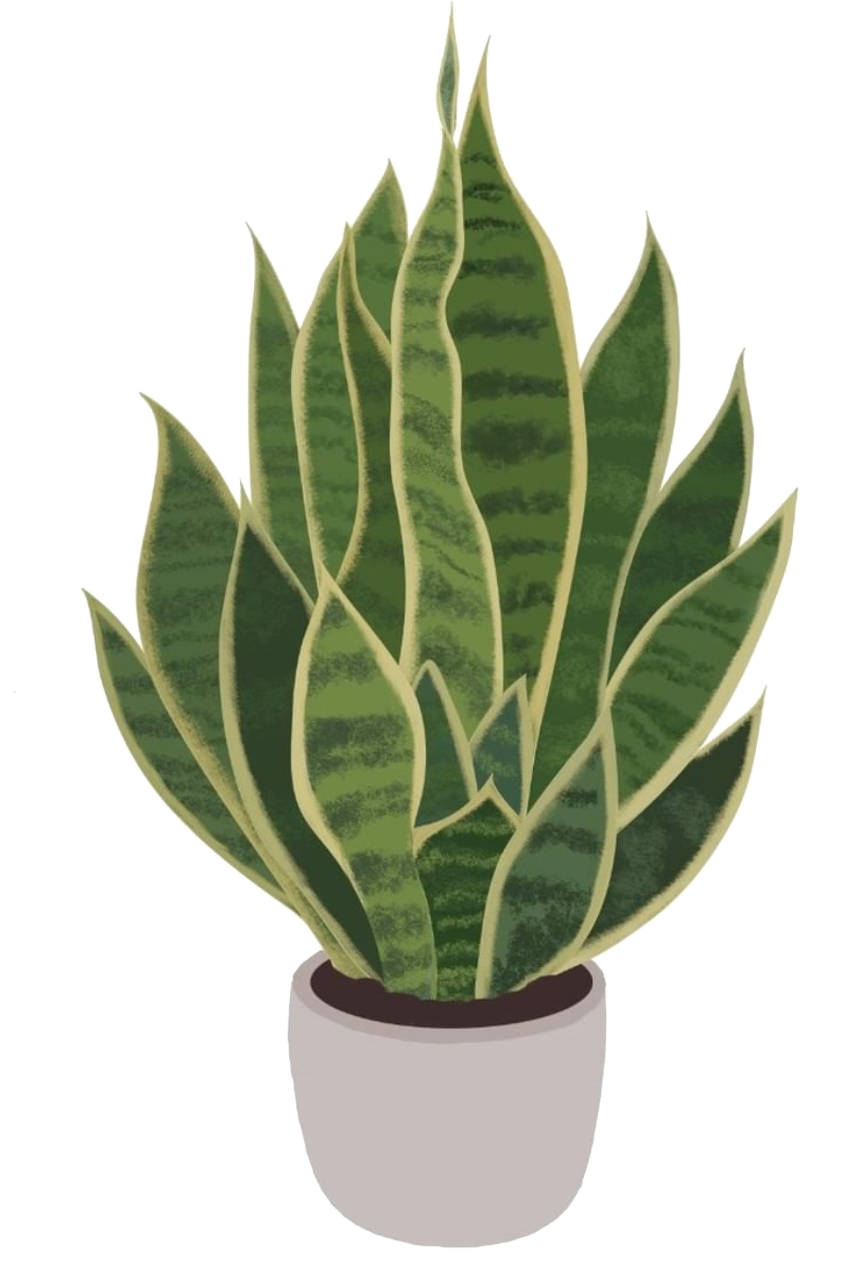
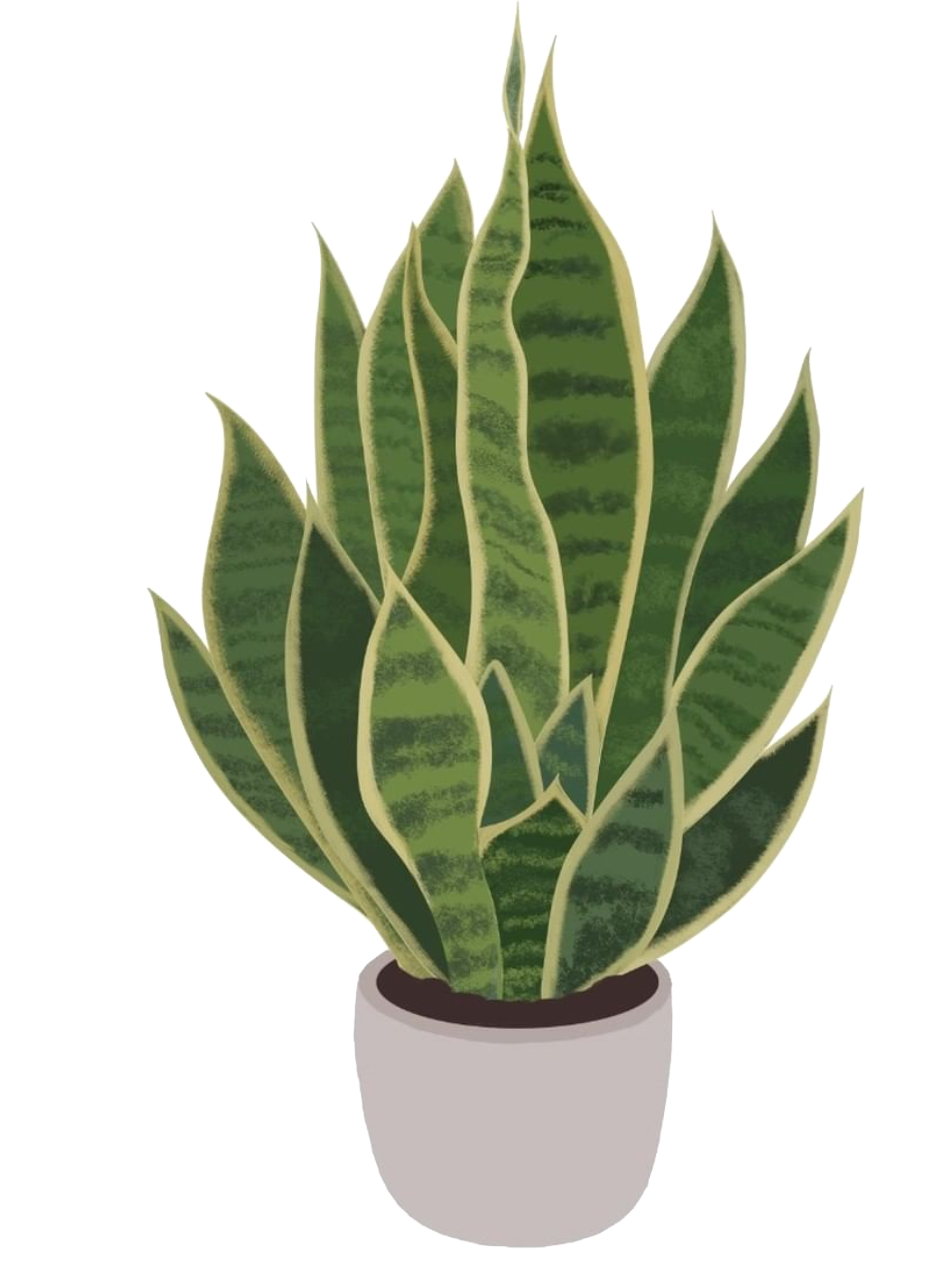
Modified to centre info for mobile display

Changed region(s): [[0.0936, 0.0, 0.9364, 0.9773]]

diff --git a/src/dashboard.py b/src/dashboard.py
@@ -117,10 +117,26 @@ def create_sensor_dict(
 def streamlit_init_layout(available_sensors: list, today: date) -> pd.DataFrame:
     """Initialisation of streamlit app"""
     sensor_dict = {}
-    st.title("Plant Monitoring")
-    st.image(Image.open(image_path / "snake.png"), width=200)
-    hero = st.empty()
-    hero.header("Placeholder")
+    st.markdown(
+        "<h1 style='text-align: center; color: white;'>Plant Monitoring</h1>",
+        unsafe_allow_html=True,
+    )
+
+    # Centre the image
+    _left, mid, _right = st.columns(3)
+    with mid:
+        st.image(Image.open(image_path / "snake.png"), use_column_width=True)
+
+        # Create a placeholder for sensor readouts
+        hero = st.empty()
+        hero.markdown(
+            "<h1 style='text-align: center; color: white;'>Sensors</h1>",
+            unsafe_allow_html=True,
+        )
+
+    # Add spacer
+    for _ in range(0, 10):
+        st.markdown("#")
 
     for sensor in available_sensors:
         # Streamlit expects columns for each sensor
@@ -213,7 +229,7 @@ def create_hero_string(available_sensors, new_vals):
     str_ar = []
     sensor_list = list(available_sensors)
     for idx in range(0, len(sensor_list)):
-        str_ar.append(f"# {sensor_list[idx].capitalize()}: {new_vals[idx]}")
+        str_ar.append(f"{sensor_list[idx].capitalize()}:<br>{new_vals[idx]}")
     return "\n".join(str_ar)
 
 
@@ -232,7 +248,10 @@ def monitor_plants(curr_time: datetime):
         )
         time.sleep(5)
         hero_string = create_hero_string(available_sensors, new_vals)
-        hero.markdown(hero_string)
+        hero.markdown(
+            f"<h1 style='text-align: center; color: White;'>{hero_string}</h1>",
+            unsafe_allow_html=True,
+        )
 
         # print((time_now - curr_time) < timedelta(days=1))
 
